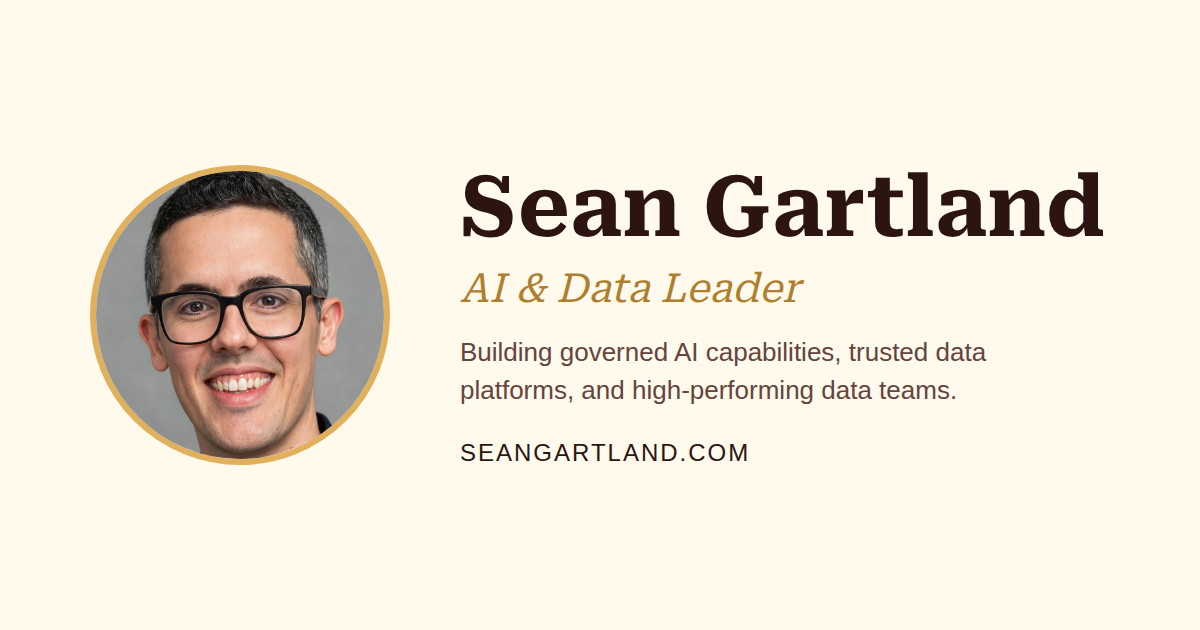
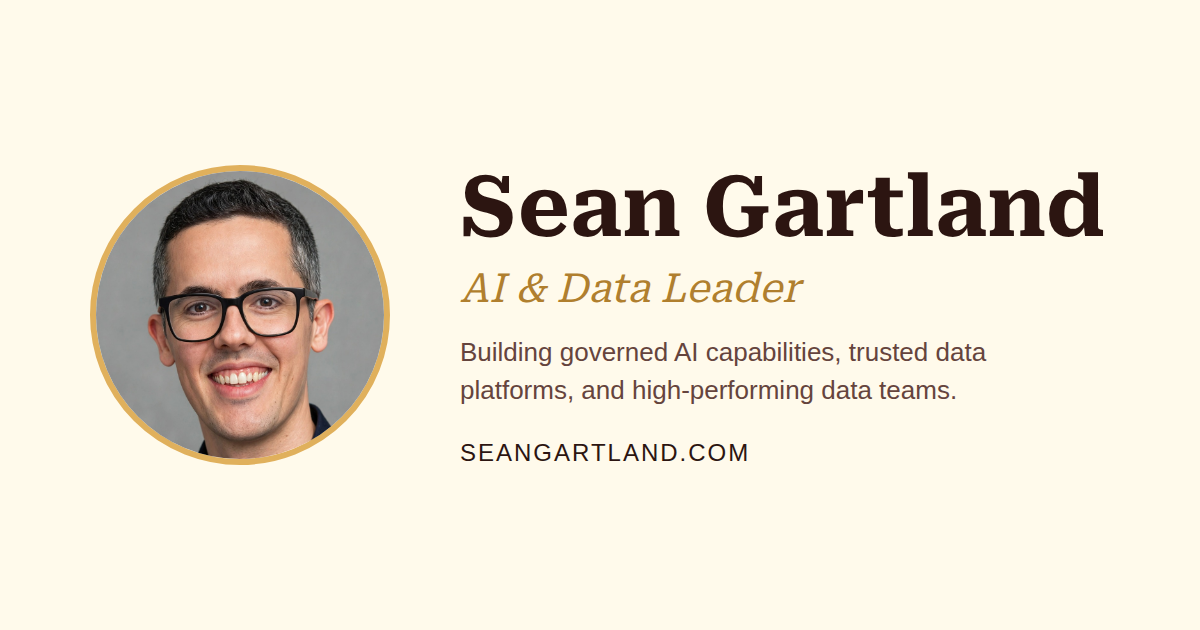
Hero: slightly larger mobile portrait, zoomed-out headshot crop
- Mobile portrait circle 128px to 144px
- Headshot re-cropped ~10% wider: a touch more headroom and collar
- OG share card regenerated

Changed region(s): [[0.0925, 0.2714, 0.3083, 0.754]]

diff --git a/style.css b/style.css
@@ -22,7 +22,7 @@ section{scroll-margin-top:5rem}
 .hero-desc{font-size:.98rem;line-height:1.55;color:var(--text)}.hero-location{margin-top:.5rem;color:var(--muted);font-size:.92rem}
 .button-link{display:inline-flex;align-items:center;justify-content:center;min-height:44px;margin-top:1rem;padding:.65rem 1rem;border-radius:.45rem;background:var(--accent-strong);color:var(--on-accent);font-weight:750;box-shadow:0 3px 10px var(--shadow)}
 .button-link:hover{filter:brightness(1.08)}
-.hero-head{display:flex;align-items:center;justify-content:space-between;gap:1.25rem}.hero-image-container{width:128px;height:128px;border-radius:50%;overflow:hidden;box-shadow:0 0 0 6px color-mix(in srgb,var(--accent) 30%,transparent);flex:0 0 auto}.hero-image{width:100%;height:100%;object-fit:cover}
+.hero-head{display:flex;align-items:center;justify-content:space-between;gap:1.25rem}.hero-image-container{width:144px;height:144px;border-radius:50%;overflow:hidden;box-shadow:0 0 0 6px color-mix(in srgb,var(--accent) 30%,transparent);flex:0 0 auto}.hero-image{width:100%;height:100%;object-fit:cover}
 .sections-wrapper{max-width:68rem;margin:auto;padding:0 1.25rem 5rem}.content-section{padding:4rem 0 1rem}.section-heading{font-size:clamp(1.85rem,7vw,2.65rem);line-height:1.16;color:var(--ink);letter-spacing:-.025em}.section-subtitle{margin:.35rem 0 1.6rem;color:var(--muted)}
 .about-text{display:grid;gap:1rem;max-width:56rem;font-size:1rem}
 .proof-panel{padding:1.5rem;border:1px solid var(--border);border-radius:1rem;background:var(--card);box-shadow:0 8px 28px var(--shadow)}.proof-panel>.section-heading{max-width:42rem;margin:.35rem 0 1.5rem}.proof-grid{display:grid;gap:1rem}.proof-item{padding-top:1rem;border-top:2px solid var(--accent)}.proof-item h3{color:var(--ink);font-size:1.08rem;margin-bottom:.75rem}.proof-item dl{display:grid;gap:.65rem}.proof-item dt{font-weight:800;color:var(--accent-strong);font-size:.75rem;text-transform:uppercase;letter-spacing:.06em}.proof-item dd{font-size:.9rem;line-height:1.5}.proof-closing{margin-top:1.5rem;padding-top:1rem;border-top:1px solid var(--border);font-weight:650;color:var(--ink)}
